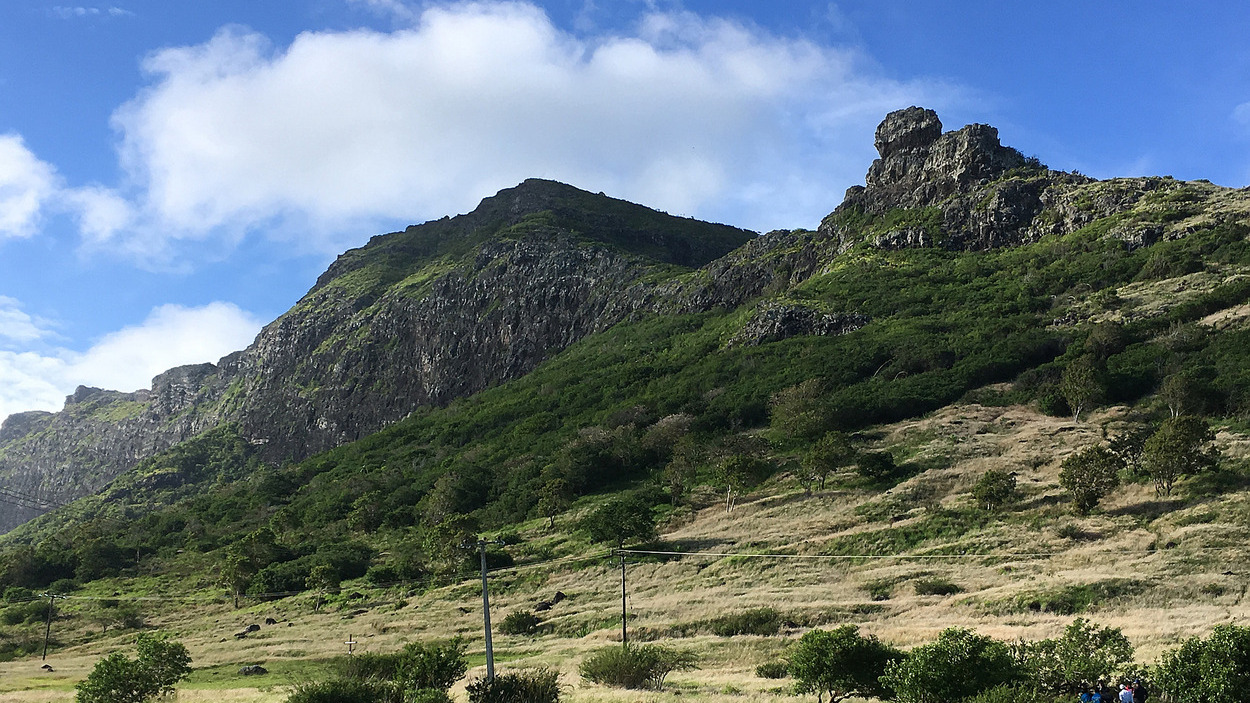
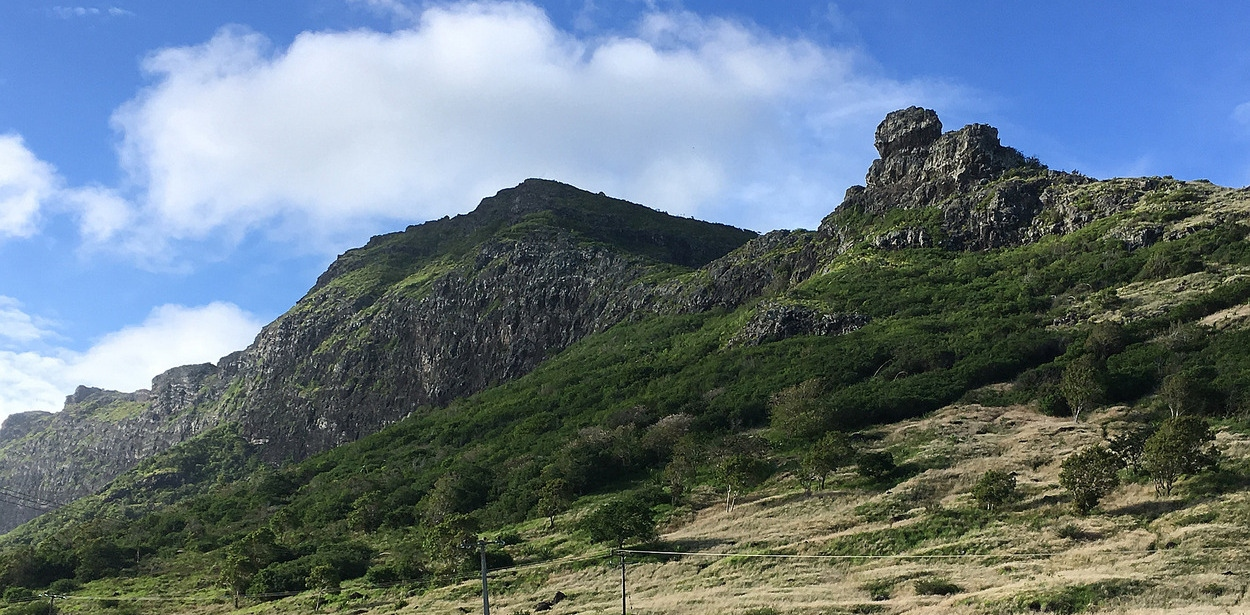
[feature] - add trekking page

diff --git a/trekking.html b/trekking.html
@@ -1,0 +1,125 @@
+<!DOCTYPE html>
+<html lang="en">
+  <head>
+    <meta charset="UTF-8">
+    <meta name="viewport" content="width=device-width, initial-scale=1.0">
+    <meta http-equiv="X-UA-Compatible" content="ie=edge">
+    <title>Wild Trekking</title>
+    <link rel="stylesheet" href="css/style.css">
+    <link rel="stylesheet" type="text/css" href="assets/slick/slick.css"/>
+    <link rel="stylesheet" type="text/css" href="assets/slick/slick-theme.css"/>
+  </head>
+  <body>
+    <!-- Header Component -->
+    <header>
+        <nav>
+            <div class="logo">
+            <a href="index.html"><span class="logo-wild">Wild </span>TREKKERS</a>
+            </div>
+            <ul class="nav-links">
+            <li><a href="index.html">Trekkings</a></li>
+            <li><a href="about.html">About Us</a></li>
+            <li><a href="profile.html">Profile</a></li>
+            <li class="nav-search"><a><img src="assets/img/icons8-search.svg" alt="search" width="25px" height="25px"></a></li>
+            </ul>
+            <div class="burger">
+            <div class="line1"></div>
+            <div class="line2"></div>
+            <div class="line3"></div>
+            </div>
+        </nav>
+        </header>
+        <main class="header-gap">
+          <section class="container trekking-section">
+            <h2 class="trekking-heading">Mountain Treks</h2>
+            <div class="mountain-card-container">
+              <div class="mountain-card">
+                <div class="mountain-img">
+                  <img src="/assets/img/corp-de-garde.jpg" alt="cord de garde">
+                </div>
+                <div class="mountain-body">
+                  <h3 class="mountain-body-title">Black River Gorges National Park</h3>
+                  <p class="mountain-body-description">
+                    <span>Duration: <span id="mnt-duration">2-3hours</span></span>
+                    <span>Distance: <span id="mnt-distance">10km</span></span>
+                    <span>Dificulty: <span id="mnt-dificulty">Easy</span></span>
+                  </p>
+                </div>
+                <button class="book-cta">Book now</button>
+              </div>
+              <div class="mountain-card">
+                <div class="mountain-img">
+                  <img src="/assets/img/corp-de-garde.jpg" alt="cord de garde">
+                </div>
+                <div class="mountain-body">
+                  <h3 class="mountain-body-title">Le morne</h3>
+                  <p class="mountain-body-description">
+                    <span>Duration: <span id="mnt-duration">2-3hours</span></span>
+                    <span>Distance: <span id="mnt-distance">10km</span></span>
+                    <span>Dificulty: <span id="mnt-dificulty">Medium</span></span>
+                  </p>
+                </div>
+                <button class="book-cta">Book now</button>
+              </div>
+              <div class="mountain-card">
+                <div class="mountain-img">
+                  <img src="/assets/img/corp-de-garde.jpg" alt="cord de garde">
+                </div>
+                <div class="mountain-body">
+                  <h3 class="mountain-body-title">Le pouce</h3>
+                  <p class="mountain-body-description">
+                    <span>Duration: <span id="mnt-duration">2-3hours</span></span>
+                    <span>Distance: <span id="mnt-distance">10km</span></span>
+                    <span>Dificulty: <span id="mnt-dificulty">Hard</span></span>
+                  </p>
+                </div>
+                <button class="book-cta">Book now</button>
+              </div>
+              <div class="mountain-card">
+                <div class="mountain-img">
+                  <img src="/assets/img/corp-de-garde.jpg" alt="cord de garde">
+                </div>
+                <div class="mountain-body">
+                  <h3 class="mountain-body-title">Black River Gorges National Park</h3>
+                  <p class="mountain-body-description">
+                    <span>Duration: <span id="mnt-duration">2-3hours</span></span>
+                    <span>Distance: <span id="mnt-distance">10km</span></span>
+                    <span>Dificulty: <span id="mnt-dificulty">Easy</span></span>
+                  </p>
+                </div>
+                <button class="book-cta">Book now</button>
+              </div>
+              <div class="mountain-card">
+                <div class="mountain-img">
+                  <img src="/assets/img/corp-de-garde.jpg" alt="cord de garde">
+                </div>
+                <div class="mountain-body">
+                  <h3 class="mountain-body-title">Le morne</h3>
+                  <p class="mountain-body-description">
+                    <span>Duration: <span id="mnt-duration">2-3hours</span></span>
+                    <span>Distance: <span id="mnt-distance">10km</span></span>
+                    <span>Dificulty: <span id="mnt-dificulty">Medium</span></span>
+                  </p>
+                </div>
+                <button class="book-cta">Book now</button>
+              </div>
+              <div class="mountain-card">
+                <div class="mountain-img">
+                  <img src="/assets/img/corp-de-garde.jpg" alt="cord de garde">
+                </div>
+                <div class="mountain-body">
+                  <h3 class="mountain-body-title">Le pouce</h3>
+                  <p class="mountain-body-description">
+                    <span>Duration: <span id="mnt-duration">2-3hours</span></span>
+                    <span>Distance: <span id="mnt-distance">10km</span></span>
+                    <span>Dificulty: <span id="mnt-dificulty">Hard</span></span>
+                  </p>
+                </div>
+                <button class="book-cta">Book now</button>
+              </div>
+            </div>
+          </section>
+        </main>
+        <script src="/js/navbar.js"></script>
+  </body>
+</html>

diff --git a/index.html b/index.html
@@ -17,7 +17,7 @@
             <a href="index.html"><span class="logo-wild">Wild </span>TREKKERS</a>
             </div>
             <ul class="nav-links">
-            <li><a href="index.html">Trekkings</a></li>
+            <li><a href="trekking.html">Trekkings</a></li>
             <li><a href="about.html">About Us</a></li>
             <li><a href="profile.html">Profile</a></li>
             <li class="nav-search"><a><img src="assets/img/icons8-search.svg" alt="search" width="25px" height="25px"></a></li>
@@ -34,12 +34,12 @@
             <div class="banner-main-text">
               <h1 class="banner-main-title">ADVENTURE IS WORTHWHILE</h1>
               <p class="banner-main-description">Discover New Places With Us, Adventure Awaits</p>
-              <div class="banner-main-cta"><a href="#discover">Discover More</a></div>
+              <div class="banner-main-cta"><a href="trekking.html">Discover More</a></div>
             </div>
             <div class="banner-slick">
               <picture>
                 <source srcset="/assets/img/le-pouce-mobile.jpg" media="(max-width:700px)">
-                <img src="/assets/img/le-pouce.png" alt="le pouce">
+                <img src="/assets/img/le-pouce.jpg" alt="le pouce">
               </picture>
               <picture>
                 <source srcset="/assets/img/le-morne-mobile.jpg" media="(max-width:700px)">
@@ -53,33 +53,7 @@
             
           </div>
         </main>
-    <script>
-        function navSlide() {
-            const burger = document.querySelector(".burger");
-            const nav = document.querySelector(".nav-links");
-            const navLinks = document.querySelectorAll(".nav-links li");
-
-            burger.addEventListener("click", () => {
-            //Toggle Nav
-            nav.classList.toggle("nav-active");
-
-            //Animate Links
-            navLinks.forEach((link, index) => {
-                if (link.style.animation) {
-                link.style.animation = "";
-                } else {
-                link.style.animation = `navLinkFade 0.5s ease forwards ${
-                    index / 7 + 0.5
-                }s`;
-                }
-            });
-          //Burger Animation
-          burger.classList.toggle("toggle");
-        });
-      }
-
-      navSlide();
-    </script>
+    <script src="/js/navbar.js"></script>
     <script type="text/javascript" src="//code.jquery.com/jquery-1.11.0.min.js"></script>
     <script type="text/javascript" src="//code.jquery.com/jquery-migrate-1.2.1.min.js"></script>
     <script type="text/javascript" src="assets/slick/slick.min.js"></script>

diff --git a/css/trekking.css b/css/trekking.css
@@ -1,0 +1,73 @@
+.trekking-heading {
+    text-align: center;
+}
+
+@media screen and (min-width: 800px) {
+    .trekking-heading {
+        text-align: left;
+        margin-left: 45px;
+    }
+}
+
+.trekking-section {
+    max-width: 1200px;
+    margin: 0 auto;
+}
+
+.mountain-card-container{
+    display: flex;
+    flex-wrap: wrap;
+    justify-content: center;
+    gap: 30px;
+}
+
+.mountain-card {
+    display: flex;
+    flex-direction: column;
+    min-width: 250px;
+    max-width: 350px;
+}
+
+.mountain-img {
+    overflow: hidden;
+}
+
+.mountain-img > img {
+    border-radius: 5px 5px 0 0;
+    max-width: 350px;
+}
+
+.mountain-body {
+    padding: 15px 15px 0;
+    background-color: #dfdbdb;
+    min-height: 128px;
+}
+
+.mountain-body-title{
+    margin: 0 0 5px;
+}
+
+.mountain-body-description {
+    margin: 0 0 10px;
+}
+
+.mountain-body-description > span {
+    display: block;
+}
+
+.book-cta {
+    background-color: var(--wild-green);
+    text-align: center;
+    color: white;
+    border: none;
+    font-size: 16px;
+    font-weight: 700;
+    padding: 10px;
+    cursor: pointer;
+    border-radius: 0 0 5px 5px;
+    transition: background-color 0.1s ease-in;
+}
+
+.book-cta:hover {
+    background-color: #05ce37;
+}

diff --git a/js/navbar.js b/js/navbar.js
@@ -1,0 +1,25 @@
+function navSlide() {
+    const burger = document.querySelector(".burger");
+    const nav = document.querySelector(".nav-links");
+    const navLinks = document.querySelectorAll(".nav-links li");
+
+    burger.addEventListener("click", () => {
+    //Toggle Nav
+    nav.classList.toggle("nav-active");
+
+    //Animate Links
+    navLinks.forEach((link, index) => {
+        if (link.style.animation) {
+        link.style.animation = "";
+        } else {
+        link.style.animation = `navLinkFade 0.5s ease forwards ${
+            index / 7 + 0.5
+        }s`;
+        }
+    });
+  //Burger Animation
+  burger.classList.toggle("toggle");
+});
+}
+
+navSlide();

diff --git a/css/style.css b/css/style.css
@@ -1,5 +1,6 @@
 @import 'header.css';
 @import 'main-banner.css';
+@import 'trekking.css';
 @font-face {
     font-family: Montserrat;
     src: url('/assets/fonts/Montserrat-Regular.ttf');
@@ -15,7 +16,11 @@
     margin: unset;
   }
 
-  main {
+  /* main {
+    margin-top: 76px;
+  } */
+
+  main.header-gap {
     margin-top: 76px;
   }
 
@@ -28,4 +33,8 @@
     vertical-align: middle;
     vertical-align: middle;
     height: auto;
+  }
+
+  .container {
+    padding: 20px;
   }

diff --git a/css/main-banner.css b/css/main-banner.css
@@ -2,6 +2,10 @@
     position: relative;
 }
 
+.banner-slick {
+    max-height: 100vh;
+}
+
 .banner-slick img {
     width: 100% ;
 }
